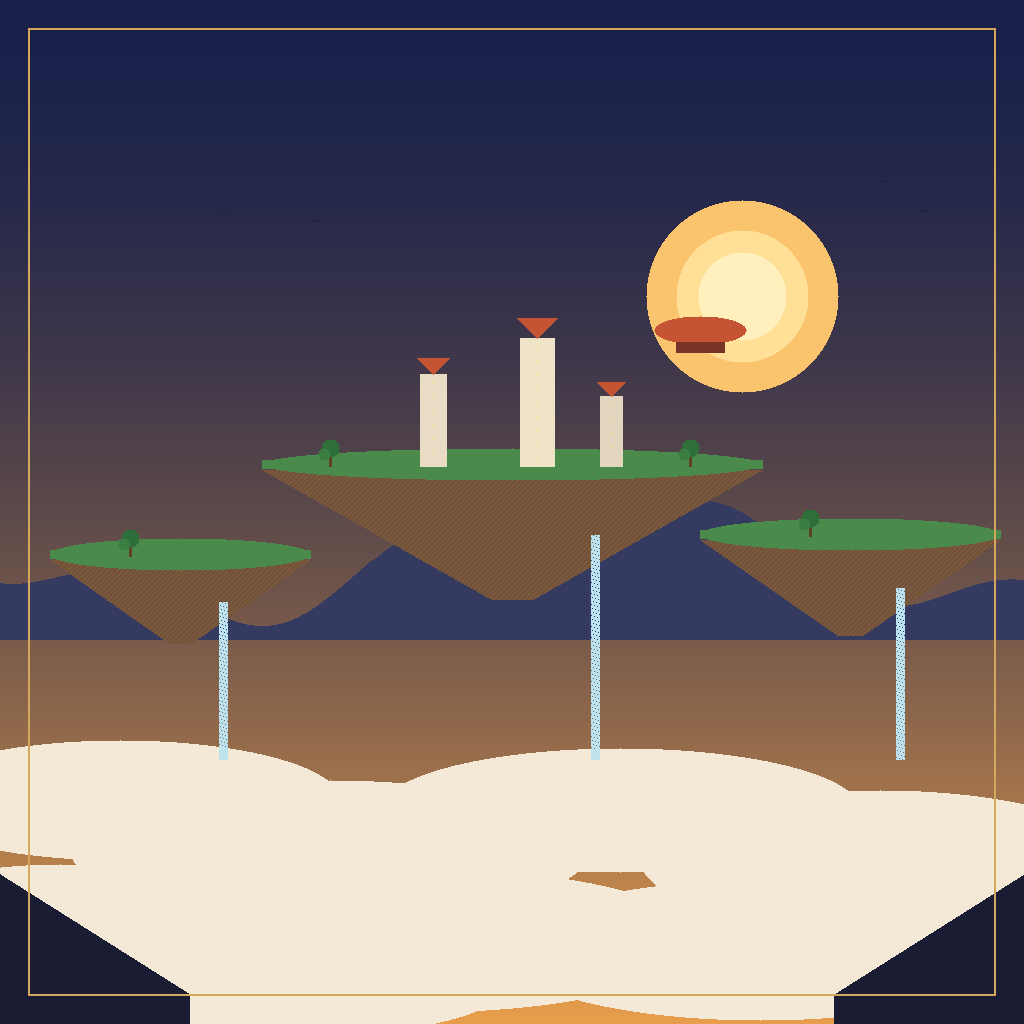
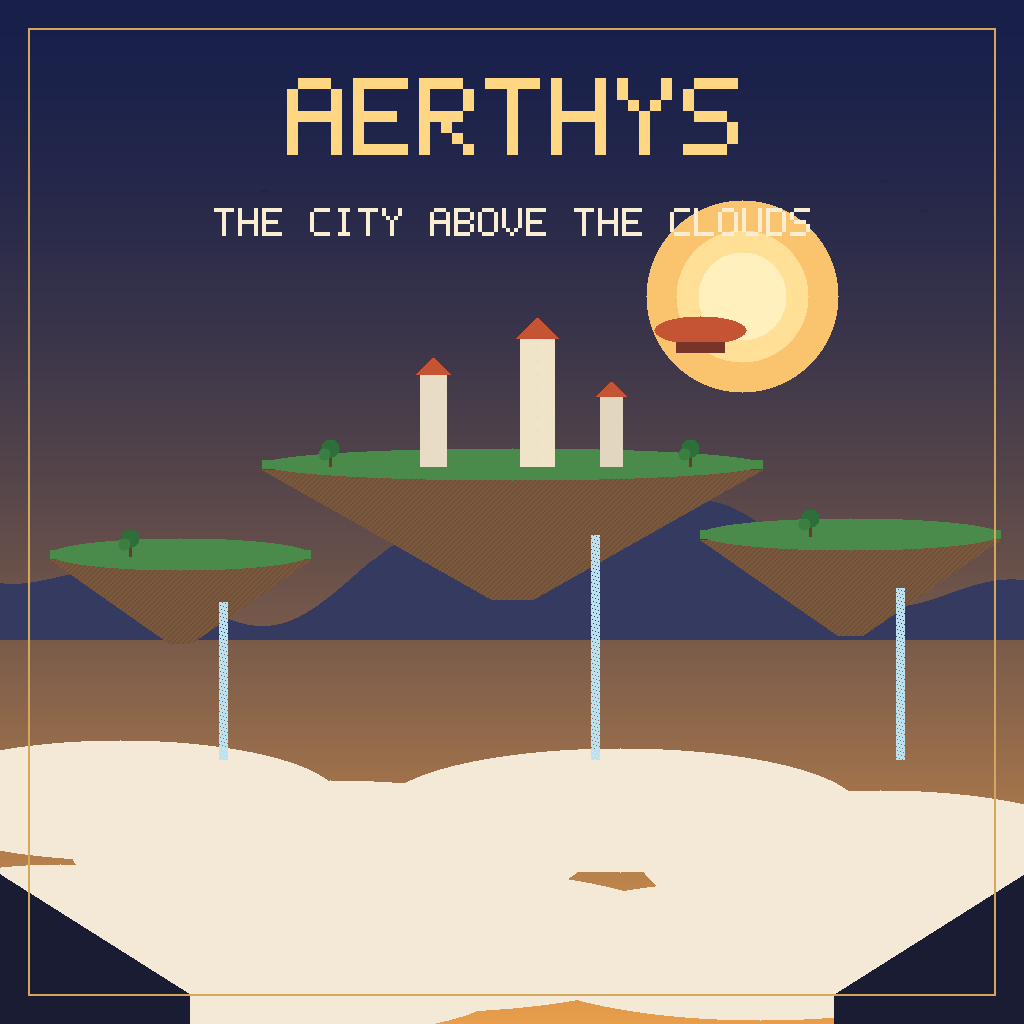
Fix poster text glyphs and tower roof orientation

diff --git a/main.py b/main.py
@@ -62,7 +62,7 @@ def draw_text(px, text, cx, y, scale, color):
         glyph = GLYPHS.get(ch, GLYPHS[" "])
         for row in range(7):
             for col in range(5):
-                if glyph[row][col] == "#":
+                if glyph[row][col] == "1":
                     for dy in range(scale):
                         for dx in range(scale):
                             set_px(px, x + col * scale + dx, y + row * scale + dy, color)
@@ -120,9 +120,11 @@ def island(px, cx, top, half_w, rock_h):
 
 def tower(px, x, base, w, h, color):
     rect(px, x, base - h, x + w, base, color)
-    # Pointed roof.
-    for dy in range(w // 2 + 4):
-        for dx in range(-dy, dy + 1):
+    # Pointed roof: widest row sits on the tower top, narrowing to an apex.
+    roof_h = w // 2 + 4
+    for dy in range(roof_h):
+        half = roof_h - dy
+        for dx in range(-half, half + 1):
             set_px(px, x + w // 2 + dx, base - h - dy, (196, 84, 52))
     # Lit windows.
     for wy in range(base - h + 8, base - 6, 14):
